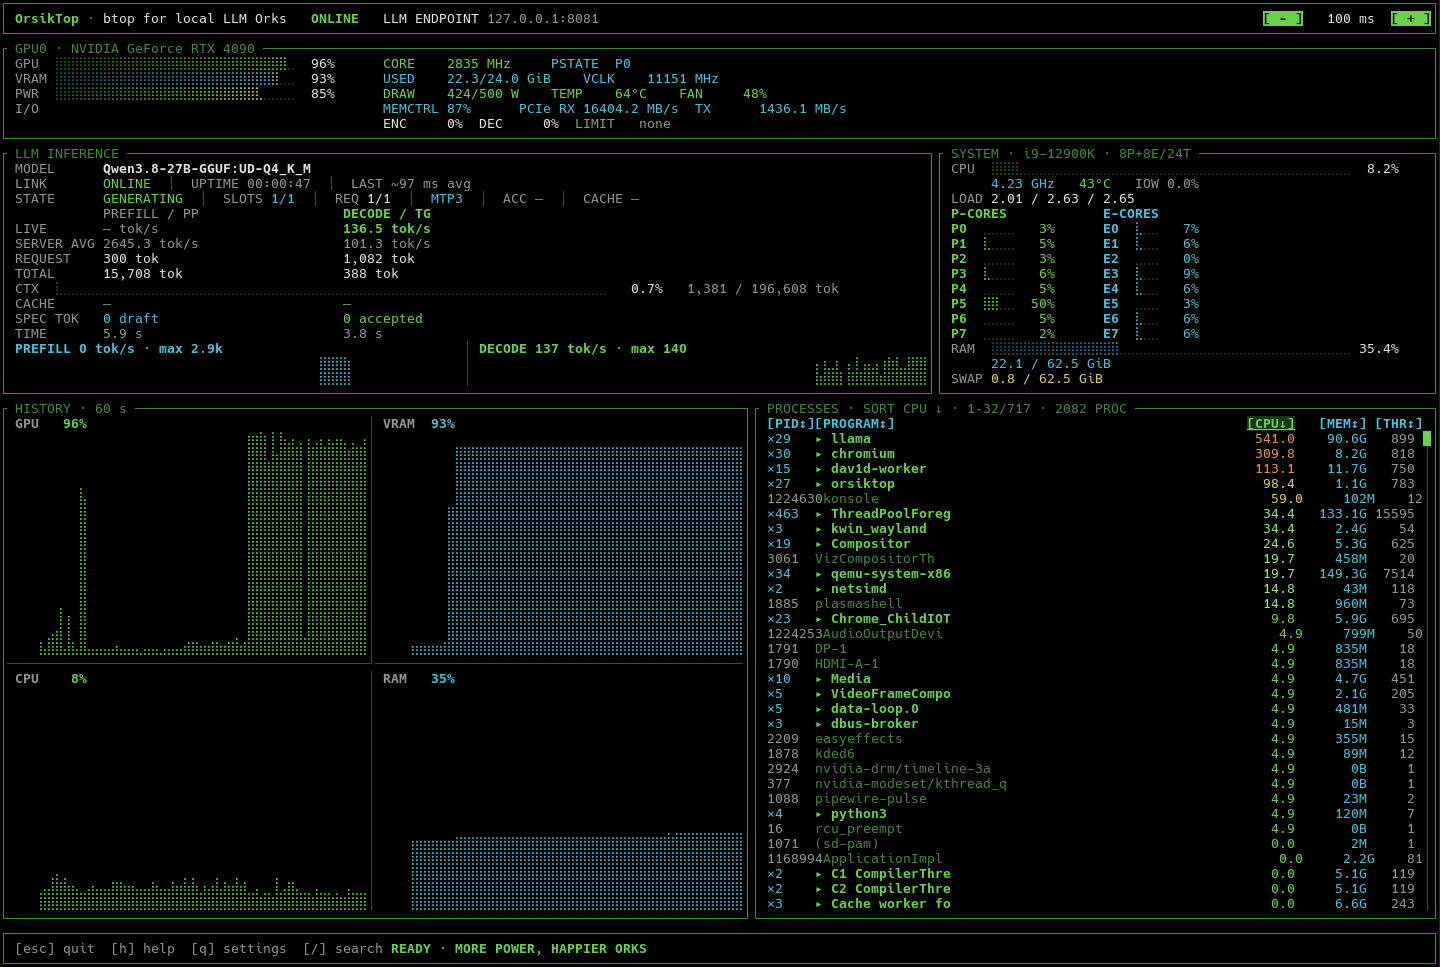
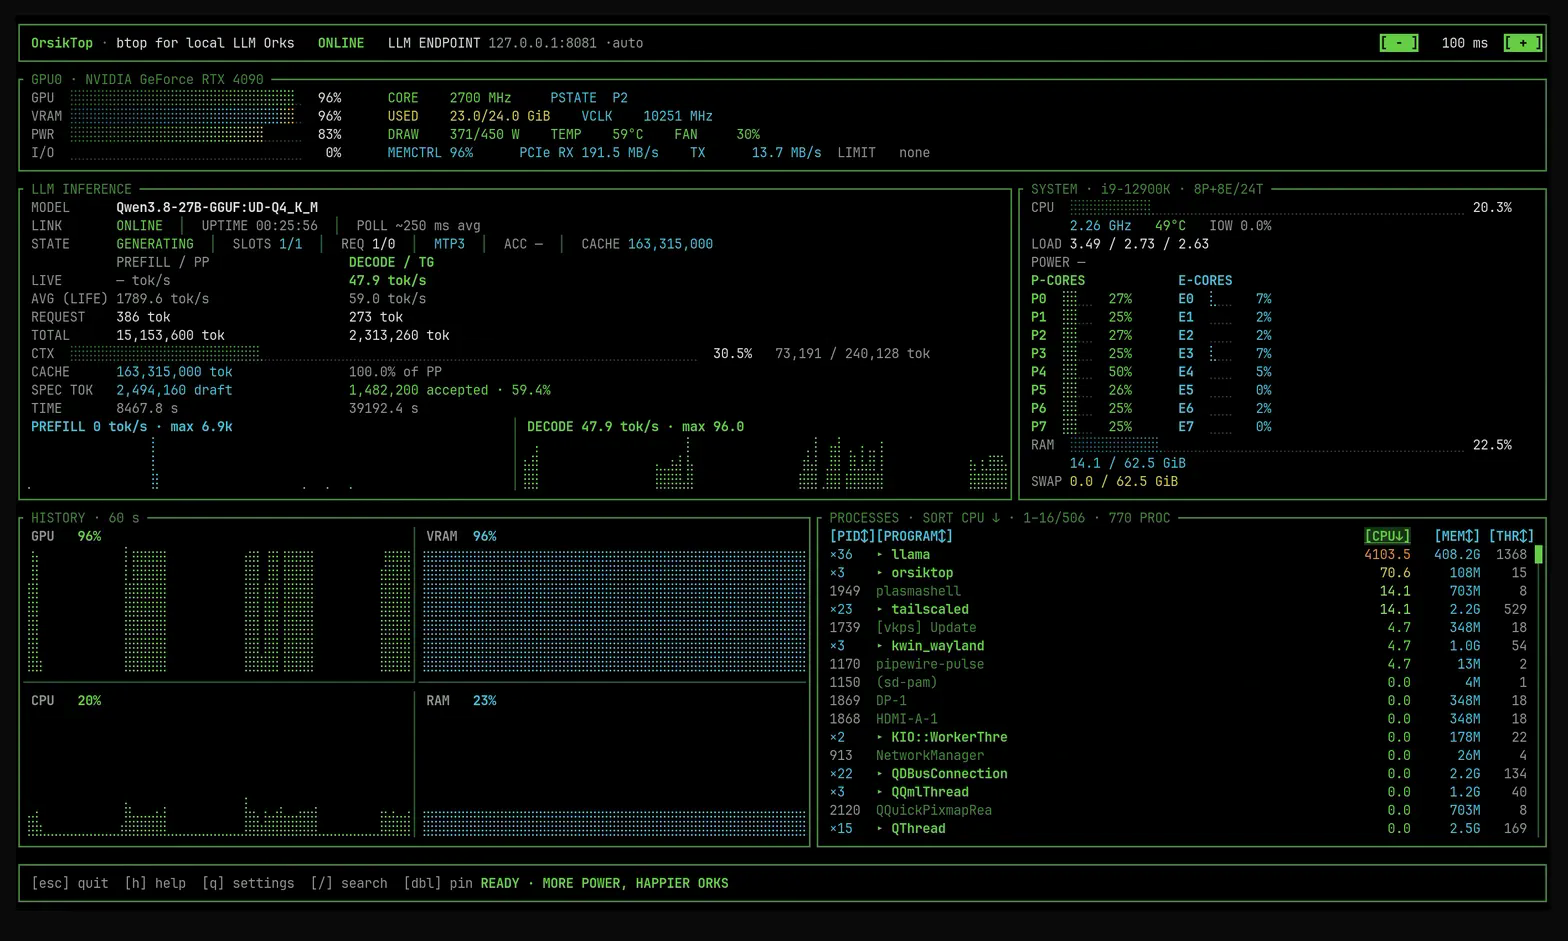
Update GitHub dashboard screenshot
Replace the README/GitHub dashboard image with the current 0.2.4
screenshot (P/E core minibar, GPU and LLM panels). Convert the
supplied WebP to PNG to match the existing asset format, and bump
the README width hint from 1440 to 1568 to match the new source.

diff --git a/README.md b/README.md
@@ -15,7 +15,7 @@ It is designed for people running local models with `llama.cpp` who want the imp
 
 > Orsik = fantasy ork. Local models need tokens. Orks need more power.
 
-<img width="1440" alt="OrsikTop dashboard" src="assets/orsiktop.png" />
+<img width="1568" alt="OrsikTop dashboard" src="assets/orsiktop.png" />
 
 ## Quick start
 
